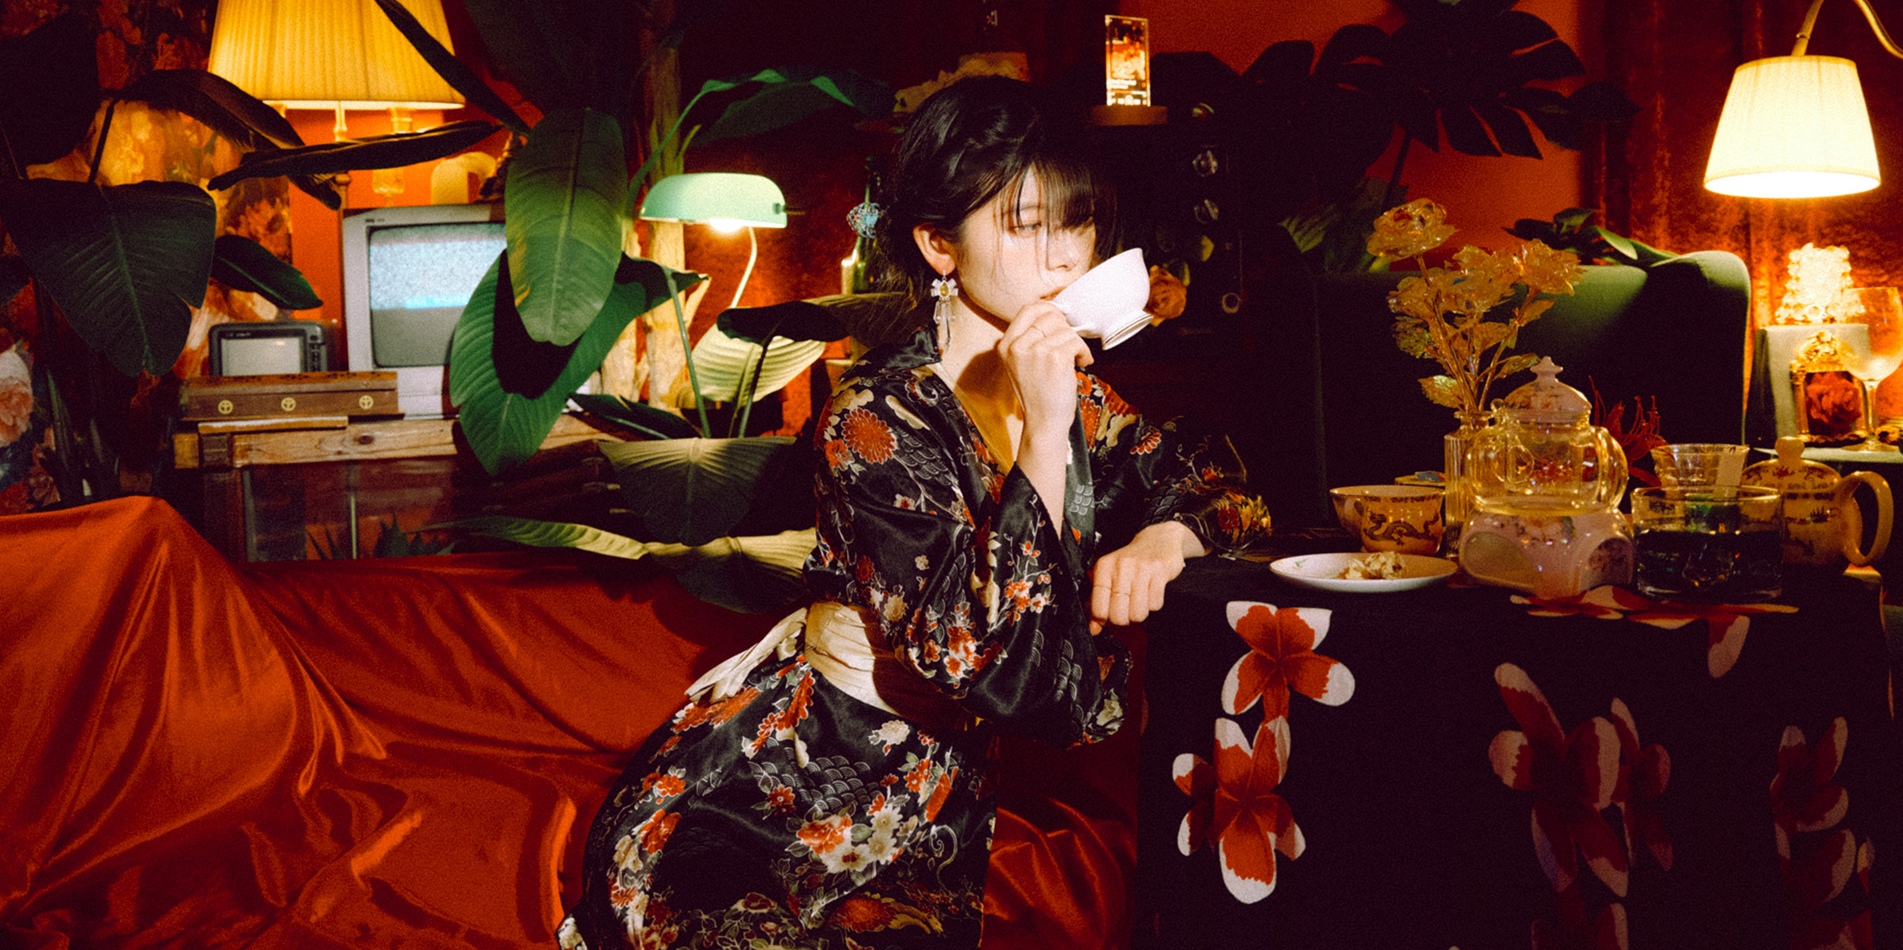
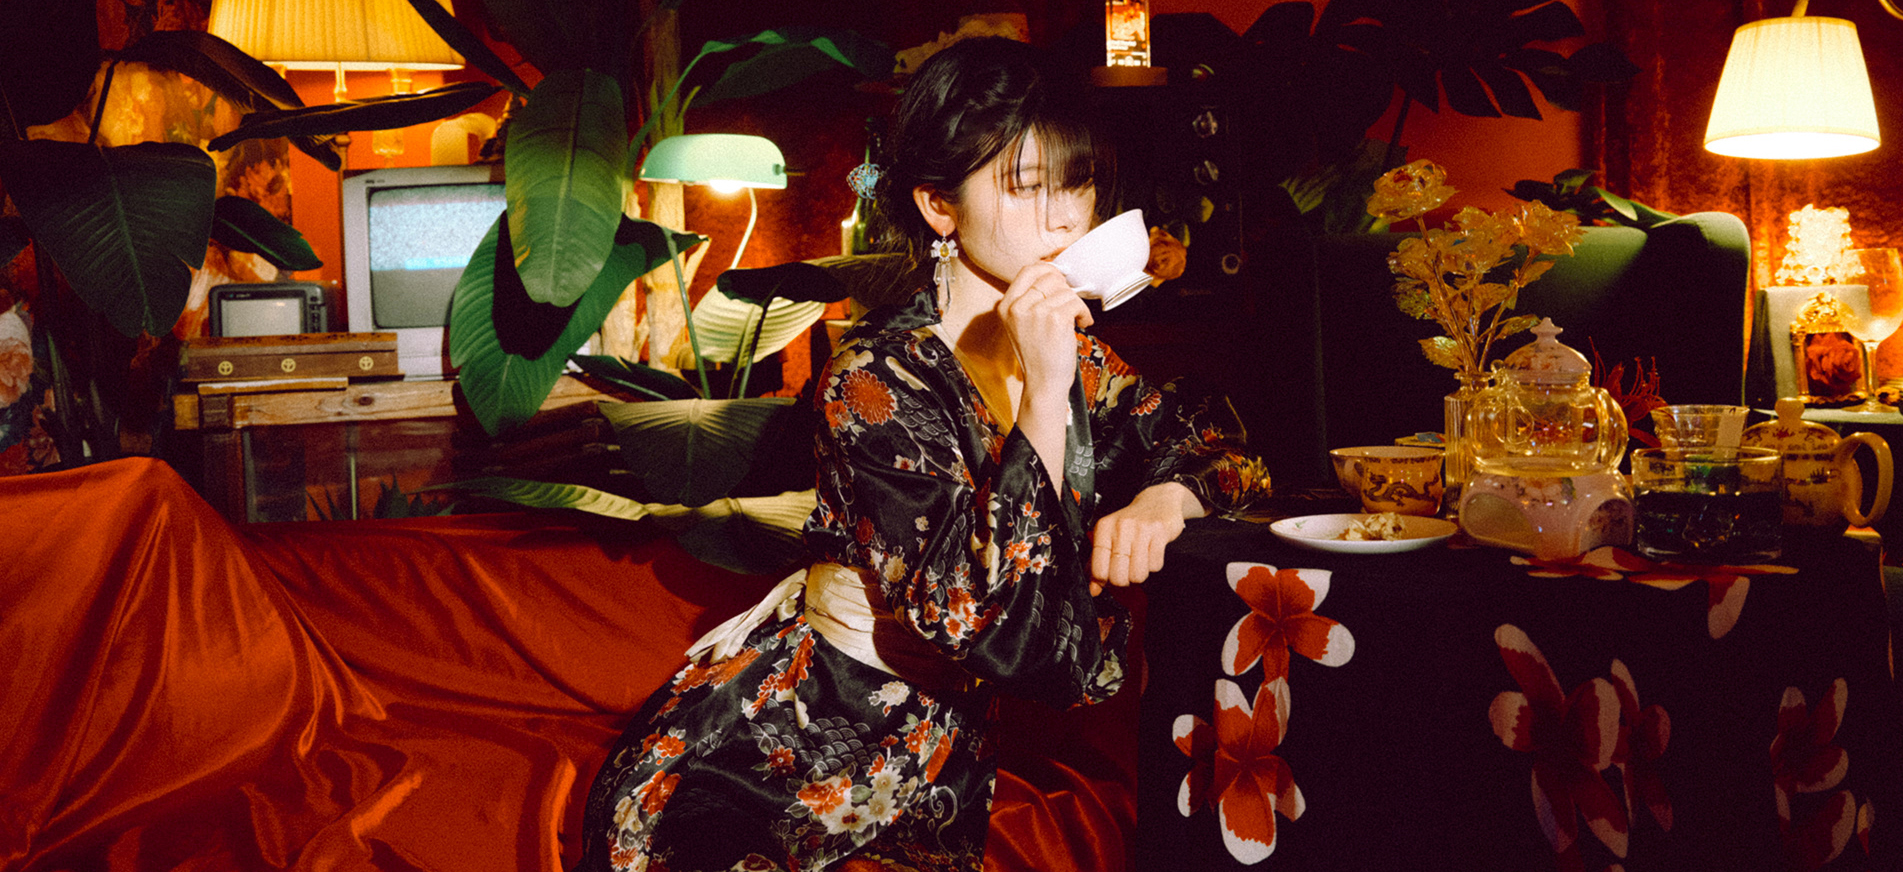
20250417

diff --git a/css/main.css b/css/main.css
@@ -17,11 +17,11 @@
 ul, li {list-style:none; margin:0; padding:0;}
 a {text-decoration: none;}
 
-body {background-color: rgb(50, 76, 34);}
+body {background-color: rgb(137, 14, 14);}
 
 header {
     width: 100%; height: 80px; margin: 0 auto;position: fixed; z-index: 3;
-    background-color: white; display: flex; justify-content: space-around; position: fixed;
+    background-color: rgb(255, 255, 255); display: flex; justify-content: space-around; position: fixed;
     }
 .logo img{width: 130px; height: 80px; display: flex; justify-content: center;}
 nav {width: 660px; height: 60px; padding-top: 10px; margin-top: 10px;}
@@ -30,9 +30,14 @@ nav li {padding: 10px 20px;}
 nav a { color: rgb(137, 14, 14); font-size: 18px; font-family: Georgia, 'Times New Roman', Times, serif; font-weight: bold;}
 nav a:hover {color: red;}
 
-.slider {width: 100%; height: 100%; margin-top: 60px;}
+/* 메인 슬라이더*/
+#main .swiper { width: 100%; height: 100%;}
+#main .swiper-slide {margin-top: 80px;  text-align: center; font-size: 18px; background: #fff; display: flex; justify-content: center; align-items: center; }
+#main .swiper-slide img {display: block; width: 100%; height: 100%; object-fit: cover; }
+#main .swiper-pagination .swiper-pagination-bullet {background-color: #fff; opacity: 1;}
+#main .swiper-pagination .swiper-pagination-bullet-active {background-color: rgb(175, 0, 0);}
 
-/* 작업물 */
+/* 체크 */
 #Check {margin: 0 auto; width: 1400px; height: 800px; margin-top: 200px;}
 #product {margin: 0 auto; width: 100%; height: 700px;  display: flex; justify-content: center;}
 #product img {margin: 0 5px}
@@ -40,7 +45,7 @@ nav a:hover {color: red;}
 #button { margin: 30px; }
 #button span {color: white;}
 #button button {background-color: rgba(143, 84, 84, 0); border: none; font-size: 18px; font-family: Georgia, 'Times New Roman', Times, serif; padding: 0px 20px; color: white; cursor: pointer;}
-
+#button button:hover {font-style: italic;}
 
 /* 컬러 이미지 */
 .color img:first-child {width: 911px; height: 600px;}
@@ -54,18 +59,43 @@ nav a:hover {color: red;}
 .si, .vin {display: none;}
 
 /* 가격표 */
-#pr h2 {width: 300px; text-align: center; height: 50px; margin: 0 auto; border: 1px solid #fff;font-family: Georgia, 'Times New Roman', Times, serif; font-style: italic; color: white; font-size: 45px; font-weight: lighter; margin-top: 100px;}
-#primg {display: flex; justify-content: center; margin-top: 60px;}
-#primg img {width: 400px; height: 522px;}
-#primg p {font-family: Georgia, 'Times New Roman', Times, serif; color: #fff; font-size: 20px;}
-#primg span {color: #fff; font-family: 'Times New Roman', Times, serif;}
-.b, .s, .v {margin: 0 25px;}
+  #pr {
+    display: flex;
+    justify-content: center;
+    align-items: center;
+    flex-wrap: wrap;
+    width: 1400px;
+    height: 800px;
+    margin: 0 auto;
+  }
+  #pr .swiper {
+    width: 400px;
+    height: 522px;
+  }
+  #pr .swiper-slide {
+    display: flex;
+    align-items: center;
+    justify-content: center;
+    border-radius: 18px;
+    font-size: 22px;
+    font-weight: bold;
+    color: #fff;
+  }
+ #pr p {font-family: Georgia, 'Times New Roman', Times, serif; color: #fff; font-size: 20px;}
+ #pr span {color: #fff; font-family: 'Times New Roman', Times, serif;}
+
+#pr h2 {width: 100%; text-align: center; height: 50px; border: 1px solid #fff;font-family: Georgia, 'Times New Roman', Times, serif; font-style: italic; color: white; font-size: 45px; font-weight: lighter; margin: 100px 564px 0;}
+.b, .s, .v {margin: 8px 0px;}
+
 
 /* 어바웃 스토리 */
 #about {width: 100%; height: 800px; background-color: #fff; margin-top: 100px;}
-.story {margin: 0 auto; width: 1400px; height: 800px; background-color: beige; display: flex;}
+.story {margin: 0 auto; width: 1400px; height: 800px; background-color: rgba(245, 245, 220, 0); display: flex;}
 .story img {height: 800px;}
-.text {padding: 150px 100px;}
-.text h2 {font-size: 35px; color: rgb(137, 14, 14); font-family: Georgia; font-style: italic;}
+.text {padding: 100px 100px;}   
+.text h2 {font-size: 35px; color: rgb(137, 14, 14); font-family: 'KyoboHandwriting2020A'; font-weight: lighter;}
 .text h3 {font-family: 'KyoboHandwriting2020A'; font-weight: 500; font-size: 40px; background-color: rgba(255, 228, 196, 0); padding: 40px 0;}
 .text p {font-size: 20px; line-height: 40px;  letter-spacing: 1.5px; font-family: 'KyoboHandwriting2020A';}
+
+/* 리뷰 */
+#review {width: 1400px; height: 800pc;}

diff --git a/index .html b/index .html
@@ -8,8 +8,12 @@
     <link href="https://fonts.googleapis.com/css2?family=Noto+Sans+SC&display=swap" rel="stylesheet">
     <link href="https://fonts.googleapis.com/css2?family=Noto+Serif+SC&display=swap" rel="stylesheet">
 
+    
     <link rel="stylesheet" href="./css/main.css">
     <script src="https://ajax.aspnetcdn.com/ajax/jQuery/jquery-3.6.0.min.js"></script>
+    
+    <link rel="stylesheet" href="https://cdn.jsdelivr.net/npm/swiper@11/swiper-bundle.min.css" />
+    <link rel="stylesheet" href="https://cdn.jsdelivr.net/npm/swiper@11/swiper-bundle.min.css" />
 </head>
 <body>
     <header>
@@ -26,26 +30,37 @@
             </ul>
         </nav>
     </header>
+    <section id="main">
+        <div class="swiper mySwiper">
+        <div class="swiper-wrapper">
+          <div class="swiper-slide"><img src="img/main1.jpg" alt=""></div>
+          <div class="swiper-slide"><img src="img/main2.jpg" alt=""></div>
+          <div class="swiper-slide"><img src="img/main3.jpg" alt=""></div>
+        </div>
+        <div class="swiper-pagination"></div>
+      </div>
+    </section>
 
-    <img src="img/main1.jpg" class="slider" name="meat">
+    <script src="https://cdn.jsdelivr.net/npm/swiper@11/swiper-bundle.min.js"></script>
 
     <script>
-
-    const image = document.getElementsByName("meat");
-    let img_array = ["img/main1.jpg", "img/main2.jpg", "img/main3.jpg"];
-    let index = 0;
-
-    function slide() {
-      document['meat'].src = img_array[index];
-      index++;
-      if (index >= img_array.length) {
-        index = 0;
-      }
-    }
-
-    setInterval(slide, 3000);
-
-    </script>
+        var swiper = new Swiper("#main .mySwiper", {
+          spaceBetween: 30,
+          centeredSlides: true,
+          autoplay: {
+            delay: 2500,
+            disableOnInteraction: false,
+          },
+          pagination: {
+            el: ".swiper-pagination",
+            clickable: true,
+          },
+          navigation: {
+            nextEl: ".swiper-button-next",
+            prevEl: ".swiper-button-prev",
+          },
+        });
+      </script>
 
     <div id="Check">
         <h2>Check Recent Work</h2>
@@ -97,24 +112,48 @@
 
     <section id="pr">
         <h2>Price List</h2>
-        <div id="primg">
+        <div class="swiper mySwiper">
+            <div class="swiper-wrapper">
+              <div class="swiper-slide"><img src="img/pr1.jpg" alt=""></div>
+              <div class="swiper-slide"><img src="img/card1.jpg" alt=""></div>
+            </div>
             <div class="b">
-                <img src="img/pr1.jpg" alt="">
                 <p>Basic(color)</p>
                 <span>₩ 150,000</span>
             </div>
+        </div>
+        <div class="swiper mySwiper">
+            <div class="swiper-wrapper">
+              <div class="swiper-slide"><img src="img/pr2.jpg" alt=""></div>
+              <div class="swiper-slide"><img src="img/card2.jpg" alt=""></div>
+            </div>
             <div class="s">
-                <img src="img/pr2.jpg" alt="">
                 <p>Signature</p>
                 <span>₩ 200,000</span>
             </div>
+          </div>
+        
+          <div class="swiper mySwiper">
+            <div class="swiper-wrapper">
+              <div class="swiper-slide"><img src="img/pr3.jpg" alt=""></div>
+              <div class="swiper-slide"><img src="img/card3.jpg" alt=""></div>
+            </div>
             <div class="v">
-                <img src="img/pr3.jpg" alt="">
                 <p>Vintage Wedding</p>
                 <span>₩ 250,000</span>
             </div>
-        </div>
+          </div>
     </section>
+
+    <script src="https://cdn.jsdelivr.net/npm/swiper@11/swiper-bundle.min.js"></script>
+
+    <!-- Initialize Swiper -->
+    <script>
+      var swiper = new Swiper("#pr .mySwiper", {
+        effect: "cards",
+        grabCursor: true,
+      });
+    </script>
 
     <div id="about">
         <div class="story">
@@ -132,6 +171,11 @@
                     지금, 당신의 가장 찬란한 순간을 화류관에서 만나보세요.</p>
                 </div>
         </div>
+    </div>
+
+    <div id="review">
+      <h2>Customer Reviews </h2>
+      <img src="img/back.jpg" alt="">
     </div>
 </body>
 </html>
